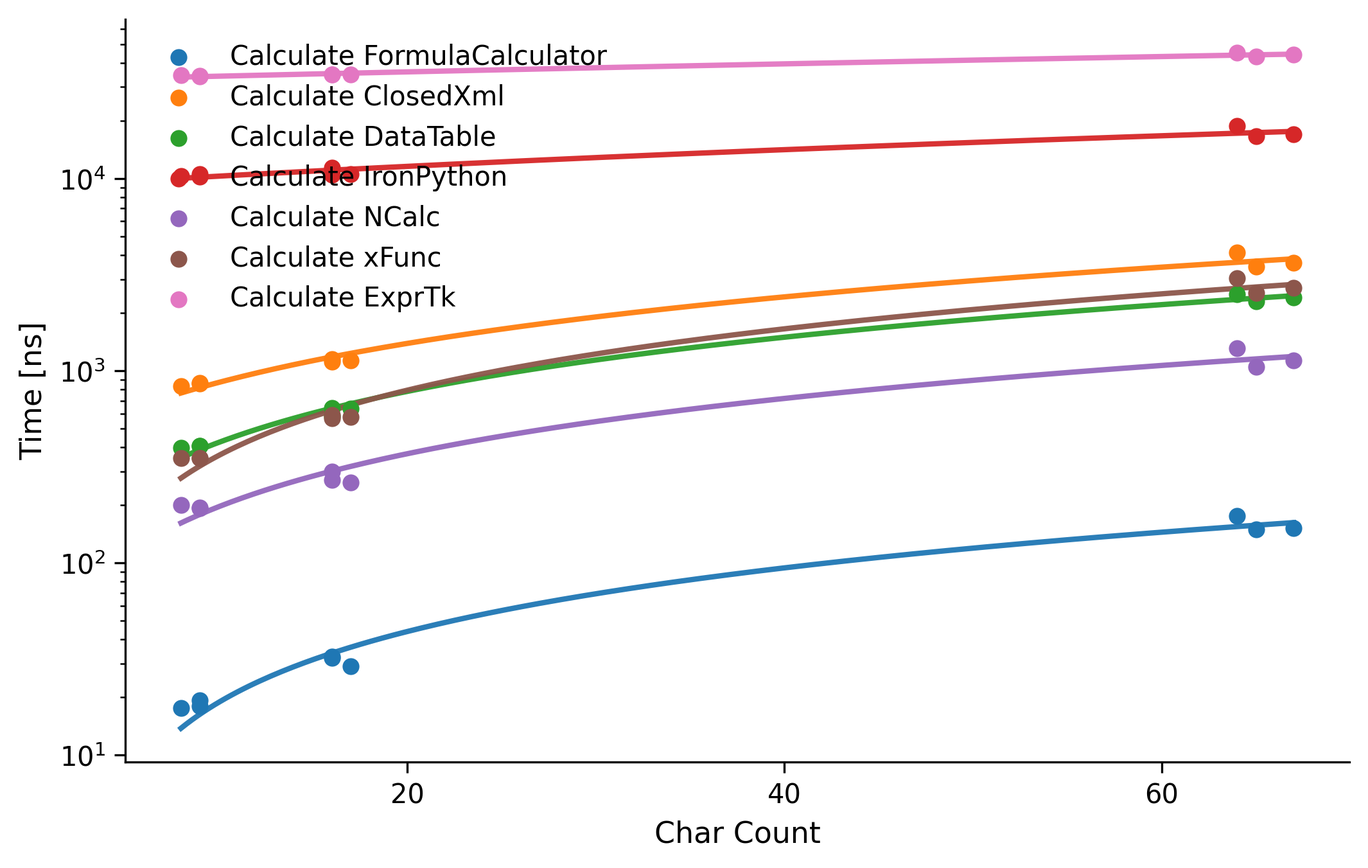
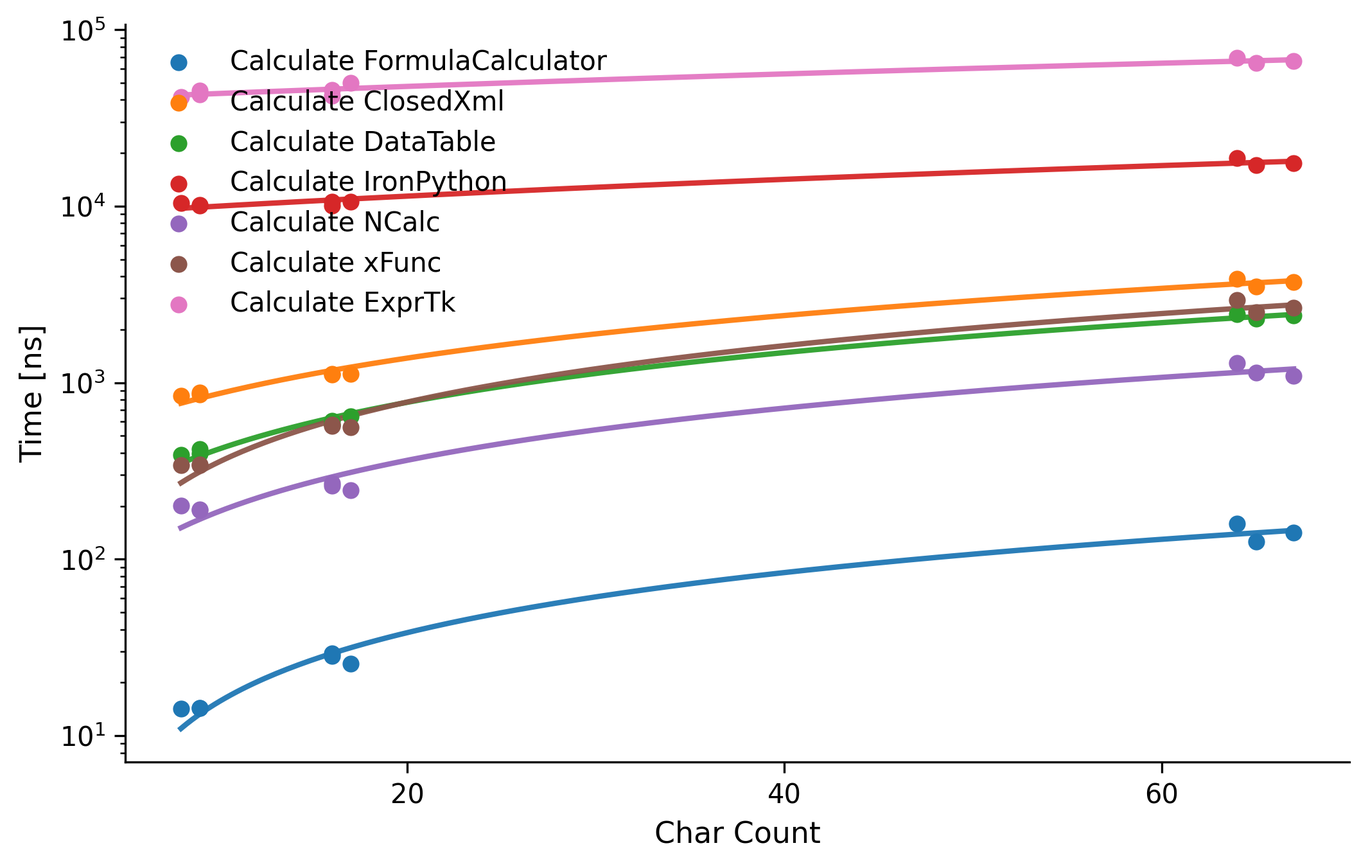
Update benchmark results and metadata for improved accuracy and clarity

diff --git a/dotnet/BenchmarkResults/BenchmarkLibraryComparisonResult.html b/dotnet/BenchmarkResults/BenchmarkLibraryComparisonResult.html
@@ -2,7 +2,7 @@
 <html lang='en'>
 <head>
 <meta charset='utf-8' />
-<title>foriver4725.FormulaCalculator.Benchmarks.LibraryComparison.Benchmarks-20260531-015016</title>
+<title>foriver4725.FormulaCalculator.Benchmarks.LibraryComparison.Benchmarks-20261004-001432</title>
 
 <style type="text/css">
 	table { border-collapse: collapse; display: block; width: 100%; overflow: auto; }
@@ -13,7 +13,7 @@
 </head>
 <body>
 <pre><code>
-BenchmarkDotNet v0.15.8, macOS Tahoe 26.5 (25F71) [Darwin 25.5.0]
+BenchmarkDotNet v0.15.8, macOS 27.0.1 (26A434) [Darwin 27.0.0]
 Apple M3, 1 CPU, 8 logical and 8 physical cores
 .NET SDK 10.0.102
   [Host]     : .NET 8.0.10 (8.0.10, 8.0.1024.46610), Arm64 RyuJIT armv8.0-a
@@ -22,71 +22,71 @@ Apple M3, 1 CPU, 8 logical and 8 physical cores
 <pre><code></code></pre>
 
 <table>
-<thead><tr><th>Method               </th><th>Input</th><th>Case</th><th>Char Count</th><th>Mean  </th><th>Error</th><th>StdDev</th><th>Median</th><th>Gen0</th><th>Gen1</th><th>Gen2</th><th>Allocated</th>
+<thead><tr><th>Method               </th><th>Input</th><th>Case</th><th>Char Count</th><th>Mean  </th><th>Error</th><th>StdDev</th><th>Gen0</th><th>Gen1</th><th>Allocated</th>
 </tr>
-</thead><tbody><tr><td>Calculate_FormulaCalculator</td><td>Len08_A</td><td>Len08_A</td><td>8</td><td>17.62 ns</td><td>0.197 ns</td><td>0.164 ns</td><td>17.62 ns</td><td>-</td><td>-</td><td>-</td><td>-</td>
-</tr><tr><td>Calculate_FormulaCalculator</td><td>Len08_B</td><td>Len08_B</td><td>9</td><td>19.29 ns</td><td>0.344 ns</td><td>0.269 ns</td><td>19.26 ns</td><td>-</td><td>-</td><td>-</td><td>-</td>
-</tr><tr><td>Calculate_FormulaCalculator</td><td>Len08_C</td><td>Len08_C</td><td>9</td><td>18.02 ns</td><td>0.190 ns</td><td>0.158 ns</td><td>18.03 ns</td><td>-</td><td>-</td><td>-</td><td>-</td>
-</tr><tr><td>Calculate_FormulaCalculator</td><td>Len16_A</td><td>Len16_A</td><td>16</td><td>32.44 ns</td><td>0.341 ns</td><td>0.319 ns</td><td>32.50 ns</td><td>-</td><td>-</td><td>-</td><td>-</td>
-</tr><tr><td>Calculate_FormulaCalculator</td><td>Len16_B</td><td>Len16_B</td><td>16</td><td>32.10 ns</td><td>0.232 ns</td><td>0.206 ns</td><td>32.07 ns</td><td>-</td><td>-</td><td>-</td><td>-</td>
-</tr><tr><td>Calculate_FormulaCalculator</td><td>Len16_C</td><td>Len16_C</td><td>17</td><td>28.95 ns</td><td>0.196 ns</td><td>0.184 ns</td><td>28.99 ns</td><td>-</td><td>-</td><td>-</td><td>-</td>
-</tr><tr><td>Calculate_FormulaCalculator</td><td>Len64_A</td><td>Len64_A</td><td>64</td><td>175.10 ns</td><td>3.243 ns</td><td>5.594 ns</td><td>172.80 ns</td><td>-</td><td>-</td><td>-</td><td>-</td>
-</tr><tr><td>Calculate_FormulaCalculator</td><td>Len64_B</td><td>Len64_B</td><td>65</td><td>150.10 ns</td><td>2.902 ns</td><td>4.518 ns</td><td>149.80 ns</td><td>-</td><td>-</td><td>-</td><td>-</td>
-</tr><tr><td>Calculate_FormulaCalculator</td><td>Len64_C</td><td>Len64_C</td><td>67</td><td>151.32 ns</td><td>2.041 ns</td><td>1.809 ns</td><td>151.20 ns</td><td>-</td><td>-</td><td>-</td><td>-</td>
-</tr><tr><td>Calculate_ClosedXml</td><td>Len08_A</td><td>Len08_A</td><td>8</td><td>834.98 ns</td><td>5.720 ns</td><td>5.071 ns</td><td>835.87 ns</td><td>0.2050</td><td>-</td><td>-</td><td>1720 B</td>
-</tr><tr><td>Calculate_ClosedXml</td><td>Len08_B</td><td>Len08_B</td><td>9</td><td>860.63 ns</td><td>6.193 ns</td><td>5.490 ns</td><td>859.76 ns</td><td>0.2050</td><td>-</td><td>-</td><td>1720 B</td>
-</tr><tr><td>Calculate_ClosedXml</td><td>Len08_C</td><td>Len08_C</td><td>9</td><td>863.51 ns</td><td>5.640 ns</td><td>4.710 ns</td><td>864.65 ns</td><td>0.2050</td><td>-</td><td>-</td><td>1720 B</td>
-</tr><tr><td>Calculate_ClosedXml</td><td>Len16_A</td><td>Len16_A</td><td>16</td><td>1,116.80 ns</td><td>4.443 ns</td><td>3.938 ns</td><td>1,116.93 ns</td><td>0.2403</td><td>-</td><td>-</td><td>2016 B</td>
-</tr><tr><td>Calculate_ClosedXml</td><td>Len16_B</td><td>Len16_B</td><td>16</td><td>1,148.55 ns</td><td>22.826 ns</td><td>23.441 ns</td><td>1,147.54 ns</td><td>0.2403</td><td>-</td><td>-</td><td>2016 B</td>
-</tr><tr><td>Calculate_ClosedXml</td><td>Len16_C</td><td>Len16_C</td><td>17</td><td>1,134.37 ns</td><td>7.150 ns</td><td>5.970 ns</td><td>1,133.44 ns</td><td>0.2403</td><td>-</td><td>-</td><td>2016 B</td>
-</tr><tr><td>Calculate_ClosedXml</td><td>Len64_A</td><td>Len64_A</td><td>64</td><td>4,121.01 ns</td><td>21.952 ns</td><td>20.534 ns</td><td>4,122.80 ns</td><td>0.5112</td><td>-</td><td>-</td><td>4336 B</td>
-</tr><tr><td>Calculate_ClosedXml</td><td>Len64_B</td><td>Len64_B</td><td>65</td><td>3,495.64 ns</td><td>17.729 ns</td><td>14.804 ns</td><td>3,495.31 ns</td><td>0.4883</td><td>-</td><td>-</td><td>4096 B</td>
-</tr><tr><td>Calculate_ClosedXml</td><td>Len64_C</td><td>Len64_C</td><td>67</td><td>3,650.43 ns</td><td>19.874 ns</td><td>16.596 ns</td><td>3,646.53 ns</td><td>0.4959</td><td>-</td><td>-</td><td>4176 B</td>
-</tr><tr><td>Calculate_DataTable</td><td>Len08_A</td><td>Len08_A</td><td>8</td><td>396.30 ns</td><td>2.948 ns</td><td>2.758 ns</td><td>395.71 ns</td><td>0.3128</td><td>0.0010</td><td>-</td><td>2624 B</td>
-</tr><tr><td>Calculate_DataTable</td><td>Len08_B</td><td>Len08_B</td><td>9</td><td>408.33 ns</td><td>7.857 ns</td><td>7.350 ns</td><td>413.13 ns</td><td>0.3152</td><td>0.0010</td><td>-</td><td>2640 B</td>
-</tr><tr><td>Calculate_DataTable</td><td>Len08_C</td><td>Len08_C</td><td>9</td><td>405.52 ns</td><td>6.647 ns</td><td>5.892 ns</td><td>407.00 ns</td><td>0.3152</td><td>0.0005</td><td>-</td><td>2640 B</td>
-</tr><tr><td>Calculate_DataTable</td><td>Len16_A</td><td>Len16_A</td><td>16</td><td>579.38 ns</td><td>4.139 ns</td><td>3.871 ns</td><td>580.33 ns</td><td>0.3548</td><td>-</td><td>-</td><td>2992 B</td>
-</tr><tr><td>Calculate_DataTable</td><td>Len16_B</td><td>Len16_B</td><td>16</td><td>639.61 ns</td><td>12.176 ns</td><td>13.028 ns</td><td>636.84 ns</td><td>0.3586</td><td>-</td><td>-</td><td>3000 B</td>
-</tr><tr><td>Calculate_DataTable</td><td>Len16_C</td><td>Len16_C</td><td>17</td><td>634.17 ns</td><td>3.639 ns</td><td>3.404 ns</td><td>634.30 ns</td><td>0.3605</td><td>0.0029</td><td>0.0010</td><td>3016 B</td>
-</tr><tr><td>Calculate_DataTable</td><td>Len64_A</td><td>Len64_A</td><td>64</td><td>2,505.90 ns</td><td>10.084 ns</td><td>9.433 ns</td><td>2,506.21 ns</td><td>0.7935</td><td>-</td><td>-</td><td>6704 B</td>
-</tr><tr><td>Calculate_DataTable</td><td>Len64_B</td><td>Len64_B</td><td>65</td><td>2,302.53 ns</td><td>24.041 ns</td><td>21.311 ns</td><td>2,295.68 ns</td><td>0.7324</td><td>-</td><td>-</td><td>6152 B</td>
-</tr><tr><td>Calculate_DataTable</td><td>Len64_C</td><td>Len64_C</td><td>67</td><td>2,415.20 ns</td><td>47.837 ns</td><td>75.875 ns</td><td>2,390.75 ns</td><td>0.7477</td><td>-</td><td>-</td><td>6344 B</td>
-</tr><tr><td>Calculate_IronPython</td><td>Len08_A</td><td>Len08_A</td><td>8</td><td>10,341.19 ns</td><td>199.222 ns</td><td>514.256 ns</td><td>10,160.29 ns</td><td>5.1117</td><td>0.3815</td><td>-</td><td>42859 B</td>
-</tr><tr><td>Calculate_IronPython</td><td>Len08_B</td><td>Len08_B</td><td>9</td><td>10,252.75 ns</td><td>202.175 ns</td><td>399.073 ns</td><td>10,119.56 ns</td><td>5.1117</td><td>-</td><td>-</td><td>42836 B</td>
-</tr><tr><td>Calculate_IronPython</td><td>Len08_C</td><td>Len08_C</td><td>9</td><td>10,534.07 ns</td><td>206.232 ns</td><td>571.468 ns</td><td>10,363.84 ns</td><td>5.1117</td><td>0.3967</td><td>-</td><td>42828 B</td>
-</tr><tr><td>Calculate_IronPython</td><td>Len16_A</td><td>Len16_A</td><td>16</td><td>11,448.83 ns</td><td>228.319 ns</td><td>375.135 ns</td><td>11,505.00 ns</td><td>5.1270</td><td>0.3662</td><td>-</td><td>43108 B</td>
-</tr><tr><td>Calculate_IronPython</td><td>Len16_B</td><td>Len16_B</td><td>16</td><td>10,489.40 ns</td><td>208.629 ns</td><td>426.174 ns</td><td>10,320.22 ns</td><td>5.0049</td><td>0.3662</td><td>-</td><td>42044 B</td>
-</tr><tr><td>Calculate_IronPython</td><td>Len16_C</td><td>Len16_C</td><td>17</td><td>10,542.27 ns</td><td>92.446 ns</td><td>81.951 ns</td><td>10,560.20 ns</td><td>5.1270</td><td>0.3662</td><td>-</td><td>43284 B</td>
-</tr><tr><td>Calculate_IronPython</td><td>Len64_A</td><td>Len64_A</td><td>64</td><td>18,833.95 ns</td><td>301.469 ns</td><td>451.225 ns</td><td>18,737.87 ns</td><td>6.8359</td><td>0.4883</td><td>-</td><td>57486 B</td>
-</tr><tr><td>Calculate_IronPython</td><td>Len64_B</td><td>Len64_B</td><td>65</td><td>16,587.76 ns</td><td>220.517 ns</td><td>195.482 ns</td><td>16,587.53 ns</td><td>6.5308</td><td>0.4883</td><td>-</td><td>54845 B</td>
-</tr><tr><td>Calculate_IronPython</td><td>Len64_C</td><td>Len64_C</td><td>67</td><td>17,000.88 ns</td><td>138.847 ns</td><td>115.943 ns</td><td>17,009.05 ns</td><td>6.5918</td><td>0.4883</td><td>-</td><td>55197 B</td>
-</tr><tr><td>Calculate_NCalc</td><td>Len08_A</td><td>Len08_A</td><td>8</td><td>200.94 ns</td><td>3.913 ns</td><td>5.485 ns</td><td>198.64 ns</td><td>0.1223</td><td>-</td><td>-</td><td>1024 B</td>
-</tr><tr><td>Calculate_NCalc</td><td>Len08_B</td><td>Len08_B</td><td>9</td><td>193.52 ns</td><td>0.685 ns</td><td>0.572 ns</td><td>193.41 ns</td><td>0.1194</td><td>-</td><td>-</td><td>1000 B</td>
-</tr><tr><td>Calculate_NCalc</td><td>Len08_C</td><td>Len08_C</td><td>9</td><td>194.62 ns</td><td>3.778 ns</td><td>4.199 ns</td><td>193.28 ns</td><td>0.1194</td><td>-</td><td>-</td><td>1000 B</td>
-</tr><tr><td>Calculate_NCalc</td><td>Len16_A</td><td>Len16_A</td><td>16</td><td>299.58 ns</td><td>5.858 ns</td><td>7.409 ns</td><td>298.66 ns</td><td>0.1545</td><td>-</td><td>-</td><td>1296 B</td>
-</tr><tr><td>Calculate_NCalc</td><td>Len16_B</td><td>Len16_B</td><td>16</td><td>270.12 ns</td><td>5.357 ns</td><td>7.509 ns</td><td>268.33 ns</td><td>0.1516</td><td>-</td><td>-</td><td>1272 B</td>
-</tr><tr><td>Calculate_NCalc</td><td>Len16_C</td><td>Len16_C</td><td>17</td><td>262.62 ns</td><td>5.033 ns</td><td>4.203 ns</td><td>263.09 ns</td><td>0.1488</td><td>-</td><td>-</td><td>1248 B</td>
-</tr><tr><td>Calculate_NCalc</td><td>Len64_A</td><td>Len64_A</td><td>64</td><td>1,311.52 ns</td><td>25.096 ns</td><td>24.648 ns</td><td>1,298.38 ns</td><td>0.6371</td><td>0.0019</td><td>-</td><td>5344 B</td>
-</tr><tr><td>Calculate_NCalc</td><td>Len64_B</td><td>Len64_B</td><td>65</td><td>1,050.06 ns</td><td>18.754 ns</td><td>16.625 ns</td><td>1,042.97 ns</td><td>0.5226</td><td>0.0019</td><td>-</td><td>4384 B</td>
-</tr><tr><td>Calculate_NCalc</td><td>Len64_C</td><td>Len64_C</td><td>67</td><td>1,134.95 ns</td><td>19.046 ns</td><td>17.816 ns</td><td>1,132.92 ns</td><td>0.5589</td><td>0.0019</td><td>-</td><td>4680 B</td>
-</tr><tr><td>Calculate_xFunc</td><td>Len08_A</td><td>Len08_A</td><td>8</td><td>350.66 ns</td><td>6.628 ns</td><td>6.200 ns</td><td>347.36 ns</td><td>0.0420</td><td>-</td><td>-</td><td>352 B</td>
-</tr><tr><td>Calculate_xFunc</td><td>Len08_B</td><td>Len08_B</td><td>9</td><td>350.91 ns</td><td>6.735 ns</td><td>7.486 ns</td><td>349.13 ns</td><td>0.0420</td><td>-</td><td>-</td><td>352 B</td>
-</tr><tr><td>Calculate_xFunc</td><td>Len08_C</td><td>Len08_C</td><td>9</td><td>352.38 ns</td><td>5.982 ns</td><td>5.303 ns</td><td>352.56 ns</td><td>0.0420</td><td>-</td><td>-</td><td>352 B</td>
-</tr><tr><td>Calculate_xFunc</td><td>Len16_A</td><td>Len16_A</td><td>16</td><td>590.97 ns</td><td>11.341 ns</td><td>11.139 ns</td><td>593.99 ns</td><td>0.0572</td><td>-</td><td>-</td><td>480 B</td>
-</tr><tr><td>Calculate_xFunc</td><td>Len16_B</td><td>Len16_B</td><td>16</td><td>568.56 ns</td><td>5.382 ns</td><td>4.494 ns</td><td>568.31 ns</td><td>0.0572</td><td>-</td><td>-</td><td>480 B</td>
-</tr><tr><td>Calculate_xFunc</td><td>Len16_C</td><td>Len16_C</td><td>17</td><td>573.69 ns</td><td>10.313 ns</td><td>8.051 ns</td><td>577.00 ns</td><td>0.0572</td><td>-</td><td>-</td><td>480 B</td>
-</tr><tr><td>Calculate_xFunc</td><td>Len64_A</td><td>Len64_A</td><td>64</td><td>3,029.21 ns</td><td>44.387 ns</td><td>37.065 ns</td><td>3,040.08 ns</td><td>0.2708</td><td>-</td><td>-</td><td>2272 B</td>
-</tr><tr><td>Calculate_xFunc</td><td>Len64_B</td><td>Len64_B</td><td>65</td><td>2,542.58 ns</td><td>50.810 ns</td><td>49.902 ns</td><td>2,526.11 ns</td><td>0.2251</td><td>-</td><td>-</td><td>1888 B</td>
-</tr><tr><td>Calculate_xFunc</td><td>Len64_C</td><td>Len64_C</td><td>67</td><td>2,701.08 ns</td><td>49.944 ns</td><td>44.274 ns</td><td>2,694.07 ns</td><td>0.2403</td><td>-</td><td>-</td><td>2016 B</td>
-</tr><tr><td>Calculate_ExprTk</td><td>Len08_A</td><td>Len08_A</td><td>8</td><td>34,532.84 ns</td><td>545.643 ns</td><td>510.395 ns</td><td>34,723.01 ns</td><td>-</td><td>-</td><td>-</td><td>-</td>
-</tr><tr><td>Calculate_ExprTk</td><td>Len08_B</td><td>Len08_B</td><td>9</td><td>34,398.14 ns</td><td>640.262 ns</td><td>711.649 ns</td><td>34,315.12 ns</td><td>-</td><td>-</td><td>-</td><td>-</td>
-</tr><tr><td>Calculate_ExprTk</td><td>Len08_C</td><td>Len08_C</td><td>9</td><td>34,116.07 ns</td><td>552.838 ns</td><td>517.125 ns</td><td>33,923.76 ns</td><td>-</td><td>-</td><td>-</td><td>-</td>
-</tr><tr><td>Calculate_ExprTk</td><td>Len16_A</td><td>Len16_A</td><td>16</td><td>34,710.02 ns</td><td>213.337 ns</td><td>189.117 ns</td><td>34,782.14 ns</td><td>-</td><td>-</td><td>-</td><td>-</td>
-</tr><tr><td>Calculate_ExprTk</td><td>Len16_B</td><td>Len16_B</td><td>16</td><td>34,841.45 ns</td><td>528.165 ns</td><td>518.729 ns</td><td>34,610.28 ns</td><td>-</td><td>-</td><td>-</td><td>-</td>
-</tr><tr><td>Calculate_ExprTk</td><td>Len16_C</td><td>Len16_C</td><td>17</td><td>34,847.98 ns</td><td>334.533 ns</td><td>296.555 ns</td><td>34,813.16 ns</td><td>-</td><td>-</td><td>-</td><td>-</td>
-</tr><tr><td>Calculate_ExprTk</td><td>Len64_A</td><td>Len64_A</td><td>64</td><td>45,242.95 ns</td><td>205.607 ns</td><td>182.266 ns</td><td>45,311.04 ns</td><td>-</td><td>-</td><td>-</td><td>-</td>
-</tr><tr><td>Calculate_ExprTk</td><td>Len64_B</td><td>Len64_B</td><td>65</td><td>43,314.55 ns</td><td>309.746 ns</td><td>274.582 ns</td><td>43,300.88 ns</td><td>-</td><td>-</td><td>-</td><td>-</td>
-</tr><tr><td>Calculate_ExprTk</td><td>Len64_C</td><td>Len64_C</td><td>67</td><td>44,266.54 ns</td><td>345.993 ns</td><td>306.714 ns</td><td>44,361.03 ns</td><td>-</td><td>-</td><td>-</td><td>-</td>
+</thead><tbody><tr><td>Calculate_FormulaCalculator</td><td>Len08_A</td><td>Len08_A</td><td>8</td><td>14.21 ns</td><td>0.294 ns</td><td>0.260 ns</td><td>-</td><td>-</td><td>-</td>
+</tr><tr><td>Calculate_FormulaCalculator</td><td>Len08_B</td><td>Len08_B</td><td>9</td><td>14.27 ns</td><td>0.072 ns</td><td>0.067 ns</td><td>-</td><td>-</td><td>-</td>
+</tr><tr><td>Calculate_FormulaCalculator</td><td>Len08_C</td><td>Len08_C</td><td>9</td><td>14.29 ns</td><td>0.310 ns</td><td>0.319 ns</td><td>-</td><td>-</td><td>-</td>
+</tr><tr><td>Calculate_FormulaCalculator</td><td>Len16_A</td><td>Len16_A</td><td>16</td><td>29.21 ns</td><td>0.480 ns</td><td>0.449 ns</td><td>-</td><td>-</td><td>-</td>
+</tr><tr><td>Calculate_FormulaCalculator</td><td>Len16_B</td><td>Len16_B</td><td>16</td><td>28.18 ns</td><td>0.302 ns</td><td>0.268 ns</td><td>-</td><td>-</td><td>-</td>
+</tr><tr><td>Calculate_FormulaCalculator</td><td>Len16_C</td><td>Len16_C</td><td>17</td><td>25.65 ns</td><td>0.506 ns</td><td>0.497 ns</td><td>-</td><td>-</td><td>-</td>
+</tr><tr><td>Calculate_FormulaCalculator</td><td>Len64_A</td><td>Len64_A</td><td>64</td><td>159.21 ns</td><td>3.113 ns</td><td>3.937 ns</td><td>-</td><td>-</td><td>-</td>
+</tr><tr><td>Calculate_FormulaCalculator</td><td>Len64_B</td><td>Len64_B</td><td>65</td><td>125.71 ns</td><td>1.785 ns</td><td>1.582 ns</td><td>-</td><td>-</td><td>-</td>
+</tr><tr><td>Calculate_FormulaCalculator</td><td>Len64_C</td><td>Len64_C</td><td>67</td><td>141.49 ns</td><td>2.693 ns</td><td>2.645 ns</td><td>-</td><td>-</td><td>-</td>
+</tr><tr><td>Calculate_ClosedXml</td><td>Len08_A</td><td>Len08_A</td><td>8</td><td>840.02 ns</td><td>10.464 ns</td><td>9.788 ns</td><td>0.2050</td><td>-</td><td>1720 B</td>
+</tr><tr><td>Calculate_ClosedXml</td><td>Len08_B</td><td>Len08_B</td><td>9</td><td>876.03 ns</td><td>12.693 ns</td><td>11.873 ns</td><td>0.2041</td><td>-</td><td>1720 B</td>
+</tr><tr><td>Calculate_ClosedXml</td><td>Len08_C</td><td>Len08_C</td><td>9</td><td>853.12 ns</td><td>16.397 ns</td><td>13.693 ns</td><td>0.2050</td><td>-</td><td>1720 B</td>
+</tr><tr><td>Calculate_ClosedXml</td><td>Len16_A</td><td>Len16_A</td><td>16</td><td>1,114.07 ns</td><td>5.264 ns</td><td>4.924 ns</td><td>0.2403</td><td>-</td><td>2016 B</td>
+</tr><tr><td>Calculate_ClosedXml</td><td>Len16_B</td><td>Len16_B</td><td>16</td><td>1,119.17 ns</td><td>3.837 ns</td><td>3.589 ns</td><td>0.2403</td><td>0.0019</td><td>2016 B</td>
+</tr><tr><td>Calculate_ClosedXml</td><td>Len16_C</td><td>Len16_C</td><td>17</td><td>1,124.61 ns</td><td>6.029 ns</td><td>5.345 ns</td><td>0.2403</td><td>-</td><td>2016 B</td>
+</tr><tr><td>Calculate_ClosedXml</td><td>Len64_A</td><td>Len64_A</td><td>64</td><td>3,885.53 ns</td><td>6.675 ns</td><td>5.917 ns</td><td>0.5112</td><td>-</td><td>4336 B</td>
+</tr><tr><td>Calculate_ClosedXml</td><td>Len64_B</td><td>Len64_B</td><td>65</td><td>3,514.76 ns</td><td>22.778 ns</td><td>21.306 ns</td><td>0.4883</td><td>-</td><td>4096 B</td>
+</tr><tr><td>Calculate_ClosedXml</td><td>Len64_C</td><td>Len64_C</td><td>67</td><td>3,721.01 ns</td><td>14.763 ns</td><td>13.087 ns</td><td>0.4959</td><td>-</td><td>4176 B</td>
+</tr><tr><td>Calculate_DataTable</td><td>Len08_A</td><td>Len08_A</td><td>8</td><td>390.18 ns</td><td>4.570 ns</td><td>4.275 ns</td><td>0.3133</td><td>0.0005</td><td>2624 B</td>
+</tr><tr><td>Calculate_DataTable</td><td>Len08_B</td><td>Len08_B</td><td>9</td><td>419.08 ns</td><td>4.351 ns</td><td>3.857 ns</td><td>0.3152</td><td>0.0005</td><td>2640 B</td>
+</tr><tr><td>Calculate_DataTable</td><td>Len08_C</td><td>Len08_C</td><td>9</td><td>396.95 ns</td><td>6.490 ns</td><td>6.071 ns</td><td>0.3152</td><td>0.0005</td><td>2640 B</td>
+</tr><tr><td>Calculate_DataTable</td><td>Len16_A</td><td>Len16_A</td><td>16</td><td>577.48 ns</td><td>4.733 ns</td><td>4.427 ns</td><td>0.3548</td><td>-</td><td>2992 B</td>
+</tr><tr><td>Calculate_DataTable</td><td>Len16_B</td><td>Len16_B</td><td>16</td><td>606.75 ns</td><td>3.901 ns</td><td>3.649 ns</td><td>0.3586</td><td>-</td><td>3000 B</td>
+</tr><tr><td>Calculate_DataTable</td><td>Len16_C</td><td>Len16_C</td><td>17</td><td>642.07 ns</td><td>3.529 ns</td><td>3.301 ns</td><td>0.3586</td><td>-</td><td>3016 B</td>
+</tr><tr><td>Calculate_DataTable</td><td>Len64_A</td><td>Len64_A</td><td>64</td><td>2,444.56 ns</td><td>14.479 ns</td><td>13.544 ns</td><td>0.8011</td><td>0.0038</td><td>6704 B</td>
+</tr><tr><td>Calculate_DataTable</td><td>Len64_B</td><td>Len64_B</td><td>65</td><td>2,304.38 ns</td><td>18.936 ns</td><td>17.713 ns</td><td>0.7324</td><td>-</td><td>6152 B</td>
+</tr><tr><td>Calculate_DataTable</td><td>Len64_C</td><td>Len64_C</td><td>67</td><td>2,394.17 ns</td><td>13.074 ns</td><td>12.229 ns</td><td>0.7477</td><td>-</td><td>6344 B</td>
+</tr><tr><td>Calculate_IronPython</td><td>Len08_A</td><td>Len08_A</td><td>8</td><td>10,419.76 ns</td><td>179.299 ns</td><td>167.716 ns</td><td>5.0964</td><td>0.4578</td><td>42683 B</td>
+</tr><tr><td>Calculate_IronPython</td><td>Len08_B</td><td>Len08_B</td><td>9</td><td>10,165.54 ns</td><td>117.421 ns</td><td>104.090 ns</td><td>5.1117</td><td>0.3815</td><td>42836 B</td>
+</tr><tr><td>Calculate_IronPython</td><td>Len08_C</td><td>Len08_C</td><td>9</td><td>10,040.54 ns</td><td>90.909 ns</td><td>80.588 ns</td><td>5.1117</td><td>0.3967</td><td>42828 B</td>
+</tr><tr><td>Calculate_IronPython</td><td>Len16_A</td><td>Len16_A</td><td>16</td><td>10,629.35 ns</td><td>69.152 ns</td><td>61.301 ns</td><td>5.1270</td><td>0.3662</td><td>43108 B</td>
+</tr><tr><td>Calculate_IronPython</td><td>Len16_B</td><td>Len16_B</td><td>16</td><td>10,064.47 ns</td><td>107.696 ns</td><td>100.739 ns</td><td>5.0049</td><td>0.4272</td><td>42044 B</td>
+</tr><tr><td>Calculate_IronPython</td><td>Len16_C</td><td>Len16_C</td><td>17</td><td>10,549.71 ns</td><td>84.904 ns</td><td>79.420 ns</td><td>5.1727</td><td>0.3815</td><td>43284 B</td>
+</tr><tr><td>Calculate_IronPython</td><td>Len64_A</td><td>Len64_A</td><td>64</td><td>18,736.42 ns</td><td>125.046 ns</td><td>110.850 ns</td><td>6.8359</td><td>0.4883</td><td>57486 B</td>
+</tr><tr><td>Calculate_IronPython</td><td>Len64_B</td><td>Len64_B</td><td>65</td><td>17,140.62 ns</td><td>130.215 ns</td><td>101.663 ns</td><td>6.4697</td><td>0.4883</td><td>54845 B</td>
+</tr><tr><td>Calculate_IronPython</td><td>Len64_C</td><td>Len64_C</td><td>67</td><td>17,525.94 ns</td><td>106.950 ns</td><td>100.041 ns</td><td>6.5918</td><td>0.4883</td><td>55197 B</td>
+</tr><tr><td>Calculate_NCalc</td><td>Len08_A</td><td>Len08_A</td><td>8</td><td>201.49 ns</td><td>2.103 ns</td><td>1.967 ns</td><td>0.1223</td><td>-</td><td>1024 B</td>
+</tr><tr><td>Calculate_NCalc</td><td>Len08_B</td><td>Len08_B</td><td>9</td><td>190.76 ns</td><td>0.801 ns</td><td>0.749 ns</td><td>0.1194</td><td>-</td><td>1000 B</td>
+</tr><tr><td>Calculate_NCalc</td><td>Len08_C</td><td>Len08_C</td><td>9</td><td>189.57 ns</td><td>0.825 ns</td><td>0.731 ns</td><td>0.1194</td><td>-</td><td>1000 B</td>
+</tr><tr><td>Calculate_NCalc</td><td>Len16_A</td><td>Len16_A</td><td>16</td><td>270.29 ns</td><td>1.379 ns</td><td>1.290 ns</td><td>0.1545</td><td>-</td><td>1296 B</td>
+</tr><tr><td>Calculate_NCalc</td><td>Len16_B</td><td>Len16_B</td><td>16</td><td>260.37 ns</td><td>1.138 ns</td><td>1.065 ns</td><td>0.1516</td><td>-</td><td>1272 B</td>
+</tr><tr><td>Calculate_NCalc</td><td>Len16_C</td><td>Len16_C</td><td>17</td><td>245.89 ns</td><td>0.841 ns</td><td>0.746 ns</td><td>0.1488</td><td>-</td><td>1248 B</td>
+</tr><tr><td>Calculate_NCalc</td><td>Len64_A</td><td>Len64_A</td><td>64</td><td>1,286.80 ns</td><td>4.075 ns</td><td>3.612 ns</td><td>0.6371</td><td>0.0019</td><td>5344 B</td>
+</tr><tr><td>Calculate_NCalc</td><td>Len64_B</td><td>Len64_B</td><td>65</td><td>1,137.75 ns</td><td>1.263 ns</td><td>1.120 ns</td><td>0.5226</td><td>0.0019</td><td>4384 B</td>
+</tr><tr><td>Calculate_NCalc</td><td>Len64_C</td><td>Len64_C</td><td>67</td><td>1,095.91 ns</td><td>1.877 ns</td><td>1.756 ns</td><td>0.5589</td><td>0.0019</td><td>4680 B</td>
+</tr><tr><td>Calculate_xFunc</td><td>Len08_A</td><td>Len08_A</td><td>8</td><td>341.39 ns</td><td>1.310 ns</td><td>1.226 ns</td><td>0.0420</td><td>-</td><td>352 B</td>
+</tr><tr><td>Calculate_xFunc</td><td>Len08_B</td><td>Len08_B</td><td>9</td><td>341.81 ns</td><td>1.557 ns</td><td>1.456 ns</td><td>0.0420</td><td>-</td><td>352 B</td>
+</tr><tr><td>Calculate_xFunc</td><td>Len08_C</td><td>Len08_C</td><td>9</td><td>342.83 ns</td><td>0.801 ns</td><td>0.710 ns</td><td>0.0420</td><td>-</td><td>352 B</td>
+</tr><tr><td>Calculate_xFunc</td><td>Len16_A</td><td>Len16_A</td><td>16</td><td>568.09 ns</td><td>2.037 ns</td><td>1.805 ns</td><td>0.0572</td><td>-</td><td>480 B</td>
+</tr><tr><td>Calculate_xFunc</td><td>Len16_B</td><td>Len16_B</td><td>16</td><td>575.56 ns</td><td>3.808 ns</td><td>3.375 ns</td><td>0.0572</td><td>-</td><td>480 B</td>
+</tr><tr><td>Calculate_xFunc</td><td>Len16_C</td><td>Len16_C</td><td>17</td><td>558.64 ns</td><td>1.087 ns</td><td>0.908 ns</td><td>0.0572</td><td>-</td><td>480 B</td>
+</tr><tr><td>Calculate_xFunc</td><td>Len64_A</td><td>Len64_A</td><td>64</td><td>2,932.22 ns</td><td>6.443 ns</td><td>6.027 ns</td><td>0.2708</td><td>-</td><td>2272 B</td>
+</tr><tr><td>Calculate_xFunc</td><td>Len64_B</td><td>Len64_B</td><td>65</td><td>2,509.77 ns</td><td>5.845 ns</td><td>4.881 ns</td><td>0.2251</td><td>-</td><td>1888 B</td>
+</tr><tr><td>Calculate_xFunc</td><td>Len64_C</td><td>Len64_C</td><td>67</td><td>2,653.66 ns</td><td>8.056 ns</td><td>7.535 ns</td><td>0.2403</td><td>-</td><td>2016 B</td>
+</tr><tr><td>Calculate_ExprTk</td><td>Len08_A</td><td>Len08_A</td><td>8</td><td>41,457.57 ns</td><td>584.448 ns</td><td>546.693 ns</td><td>-</td><td>-</td><td>-</td>
+</tr><tr><td>Calculate_ExprTk</td><td>Len08_B</td><td>Len08_B</td><td>9</td><td>42,847.31 ns</td><td>833.751 ns</td><td>779.891 ns</td><td>-</td><td>-</td><td>-</td>
+</tr><tr><td>Calculate_ExprTk</td><td>Len08_C</td><td>Len08_C</td><td>9</td><td>45,267.98 ns</td><td>191.078 ns</td><td>178.734 ns</td><td>-</td><td>-</td><td>-</td>
+</tr><tr><td>Calculate_ExprTk</td><td>Len16_A</td><td>Len16_A</td><td>16</td><td>42,323.03 ns</td><td>773.344 ns</td><td>723.386 ns</td><td>-</td><td>-</td><td>-</td>
+</tr><tr><td>Calculate_ExprTk</td><td>Len16_B</td><td>Len16_B</td><td>16</td><td>45,434.93 ns</td><td>274.418 ns</td><td>243.264 ns</td><td>-</td><td>-</td><td>-</td>
+</tr><tr><td>Calculate_ExprTk</td><td>Len16_C</td><td>Len16_C</td><td>17</td><td>49,734.07 ns</td><td>202.675 ns</td><td>179.666 ns</td><td>-</td><td>-</td><td>-</td>
+</tr><tr><td>Calculate_ExprTk</td><td>Len64_A</td><td>Len64_A</td><td>64</td><td>69,381.37 ns</td><td>478.763 ns</td><td>447.835 ns</td><td>-</td><td>-</td><td>-</td>
+</tr><tr><td>Calculate_ExprTk</td><td>Len64_B</td><td>Len64_B</td><td>65</td><td>64,574.17 ns</td><td>786.426 ns</td><td>656.701 ns</td><td>-</td><td>-</td><td>-</td>
+</tr><tr><td>Calculate_ExprTk</td><td>Len64_C</td><td>Len64_C</td><td>67</td><td>66,630.75 ns</td><td>823.367 ns</td><td>770.178 ns</td><td>-</td><td>-</td><td>-</td>
 </tr></tbody></table>
 </body>
 </html>

diff --git a/dotnet/BenchmarkResults/BenchmarkLibraryComparisonResult.md b/dotnet/BenchmarkResults/BenchmarkLibraryComparisonResult.md
@@ -1,6 +1,6 @@
 ```
 
-BenchmarkDotNet v0.15.8, macOS Tahoe 26.5 (25F71) [Darwin 25.5.0]
+BenchmarkDotNet v0.15.8, macOS 27.0.1 (26A434) [Darwin 27.0.0]
 Apple M3, 1 CPU, 8 logical and 8 physical cores
 .NET SDK 10.0.102
   [Host]     : .NET 8.0.10 (8.0.10, 8.0.1024.46610), Arm64 RyuJIT armv8.0-a
@@ -8,68 +8,68 @@ Apple M3, 1 CPU, 8 logical and 8 physical cores
 
 
 ```
-| Method                      | Input   | Case    | Char Count | Mean         | Error      | StdDev     | Median       | Gen0   | Gen1   | Gen2   | Allocated |
-|---------------------------- |-------- |-------- |-----------:|-------------:|-----------:|-----------:|-------------:|-------:|-------:|-------:|----------:|
-| Calculate_FormulaCalculator | Len08_A | Len08_A |          8 |     17.62 ns |   0.197 ns |   0.164 ns |     17.62 ns |      - |      - |      - |         - |
-| Calculate_FormulaCalculator | Len08_B | Len08_B |          9 |     19.29 ns |   0.344 ns |   0.269 ns |     19.26 ns |      - |      - |      - |         - |
-| Calculate_FormulaCalculator | Len08_C | Len08_C |          9 |     18.02 ns |   0.190 ns |   0.158 ns |     18.03 ns |      - |      - |      - |         - |
-| Calculate_FormulaCalculator | Len16_A | Len16_A |         16 |     32.44 ns |   0.341 ns |   0.319 ns |     32.50 ns |      - |      - |      - |         - |
-| Calculate_FormulaCalculator | Len16_B | Len16_B |         16 |     32.10 ns |   0.232 ns |   0.206 ns |     32.07 ns |      - |      - |      - |         - |
-| Calculate_FormulaCalculator | Len16_C | Len16_C |         17 |     28.95 ns |   0.196 ns |   0.184 ns |     28.99 ns |      - |      - |      - |         - |
-| Calculate_FormulaCalculator | Len64_A | Len64_A |         64 |    175.10 ns |   3.243 ns |   5.594 ns |    172.80 ns |      - |      - |      - |         - |
-| Calculate_FormulaCalculator | Len64_B | Len64_B |         65 |    150.10 ns |   2.902 ns |   4.518 ns |    149.80 ns |      - |      - |      - |         - |
-| Calculate_FormulaCalculator | Len64_C | Len64_C |         67 |    151.32 ns |   2.041 ns |   1.809 ns |    151.20 ns |      - |      - |      - |         - |
-| Calculate_ClosedXml         | Len08_A | Len08_A |          8 |    834.98 ns |   5.720 ns |   5.071 ns |    835.87 ns | 0.2050 |      - |      - |    1720 B |
-| Calculate_ClosedXml         | Len08_B | Len08_B |          9 |    860.63 ns |   6.193 ns |   5.490 ns |    859.76 ns | 0.2050 |      - |      - |    1720 B |
-| Calculate_ClosedXml         | Len08_C | Len08_C |          9 |    863.51 ns |   5.640 ns |   4.710 ns |    864.65 ns | 0.2050 |      - |      - |    1720 B |
-| Calculate_ClosedXml         | Len16_A | Len16_A |         16 |  1,116.80 ns |   4.443 ns |   3.938 ns |  1,116.93 ns | 0.2403 |      - |      - |    2016 B |
-| Calculate_ClosedXml         | Len16_B | Len16_B |         16 |  1,148.55 ns |  22.826 ns |  23.441 ns |  1,147.54 ns | 0.2403 |      - |      - |    2016 B |
-| Calculate_ClosedXml         | Len16_C | Len16_C |         17 |  1,134.37 ns |   7.150 ns |   5.970 ns |  1,133.44 ns | 0.2403 |      - |      - |    2016 B |
-| Calculate_ClosedXml         | Len64_A | Len64_A |         64 |  4,121.01 ns |  21.952 ns |  20.534 ns |  4,122.80 ns | 0.5112 |      - |      - |    4336 B |
-| Calculate_ClosedXml         | Len64_B | Len64_B |         65 |  3,495.64 ns |  17.729 ns |  14.804 ns |  3,495.31 ns | 0.4883 |      - |      - |    4096 B |
-| Calculate_ClosedXml         | Len64_C | Len64_C |         67 |  3,650.43 ns |  19.874 ns |  16.596 ns |  3,646.53 ns | 0.4959 |      - |      - |    4176 B |
-| Calculate_DataTable         | Len08_A | Len08_A |          8 |    396.30 ns |   2.948 ns |   2.758 ns |    395.71 ns | 0.3128 | 0.0010 |      - |    2624 B |
-| Calculate_DataTable         | Len08_B | Len08_B |          9 |    408.33 ns |   7.857 ns |   7.350 ns |    413.13 ns | 0.3152 | 0.0010 |      - |    2640 B |
-| Calculate_DataTable         | Len08_C | Len08_C |          9 |    405.52 ns |   6.647 ns |   5.892 ns |    407.00 ns | 0.3152 | 0.0005 |      - |    2640 B |
-| Calculate_DataTable         | Len16_A | Len16_A |         16 |    579.38 ns |   4.139 ns |   3.871 ns |    580.33 ns | 0.3548 |      - |      - |    2992 B |
-| Calculate_DataTable         | Len16_B | Len16_B |         16 |    639.61 ns |  12.176 ns |  13.028 ns |    636.84 ns | 0.3586 |      - |      - |    3000 B |
-| Calculate_DataTable         | Len16_C | Len16_C |         17 |    634.17 ns |   3.639 ns |   3.404 ns |    634.30 ns | 0.3605 | 0.0029 | 0.0010 |    3016 B |
-| Calculate_DataTable         | Len64_A | Len64_A |         64 |  2,505.90 ns |  10.084 ns |   9.433 ns |  2,506.21 ns | 0.7935 |      - |      - |    6704 B |
-| Calculate_DataTable         | Len64_B | Len64_B |         65 |  2,302.53 ns |  24.041 ns |  21.311 ns |  2,295.68 ns | 0.7324 |      - |      - |    6152 B |
-| Calculate_DataTable         | Len64_C | Len64_C |         67 |  2,415.20 ns |  47.837 ns |  75.875 ns |  2,390.75 ns | 0.7477 |      - |      - |    6344 B |
-| Calculate_IronPython        | Len08_A | Len08_A |          8 | 10,341.19 ns | 199.222 ns | 514.256 ns | 10,160.29 ns | 5.1117 | 0.3815 |      - |   42859 B |
-| Calculate_IronPython        | Len08_B | Len08_B |          9 | 10,252.75 ns | 202.175 ns | 399.073 ns | 10,119.56 ns | 5.1117 |      - |      - |   42836 B |
-| Calculate_IronPython        | Len08_C | Len08_C |          9 | 10,534.07 ns | 206.232 ns | 571.468 ns | 10,363.84 ns | 5.1117 | 0.3967 |      - |   42828 B |
-| Calculate_IronPython        | Len16_A | Len16_A |         16 | 11,448.83 ns | 228.319 ns | 375.135 ns | 11,505.00 ns | 5.1270 | 0.3662 |      - |   43108 B |
-| Calculate_IronPython        | Len16_B | Len16_B |         16 | 10,489.40 ns | 208.629 ns | 426.174 ns | 10,320.22 ns | 5.0049 | 0.3662 |      - |   42044 B |
-| Calculate_IronPython        | Len16_C | Len16_C |         17 | 10,542.27 ns |  92.446 ns |  81.951 ns | 10,560.20 ns | 5.1270 | 0.3662 |      - |   43284 B |
-| Calculate_IronPython        | Len64_A | Len64_A |         64 | 18,833.95 ns | 301.469 ns | 451.225 ns | 18,737.87 ns | 6.8359 | 0.4883 |      - |   57486 B |
-| Calculate_IronPython        | Len64_B | Len64_B |         65 | 16,587.76 ns | 220.517 ns | 195.482 ns | 16,587.53 ns | 6.5308 | 0.4883 |      - |   54845 B |
-| Calculate_IronPython        | Len64_C | Len64_C |         67 | 17,000.88 ns | 138.847 ns | 115.943 ns | 17,009.05 ns | 6.5918 | 0.4883 |      - |   55197 B |
-| Calculate_NCalc             | Len08_A | Len08_A |          8 |    200.94 ns |   3.913 ns |   5.485 ns |    198.64 ns | 0.1223 |      - |      - |    1024 B |
-| Calculate_NCalc             | Len08_B | Len08_B |          9 |    193.52 ns |   0.685 ns |   0.572 ns |    193.41 ns | 0.1194 |      - |      - |    1000 B |
-| Calculate_NCalc             | Len08_C | Len08_C |          9 |    194.62 ns |   3.778 ns |   4.199 ns |    193.28 ns | 0.1194 |      - |      - |    1000 B |
-| Calculate_NCalc             | Len16_A | Len16_A |         16 |    299.58 ns |   5.858 ns |   7.409 ns |    298.66 ns | 0.1545 |      - |      - |    1296 B |
-| Calculate_NCalc             | Len16_B | Len16_B |         16 |    270.12 ns |   5.357 ns |   7.509 ns |    268.33 ns | 0.1516 |      - |      - |    1272 B |
-| Calculate_NCalc             | Len16_C | Len16_C |         17 |    262.62 ns |   5.033 ns |   4.203 ns |    263.09 ns | 0.1488 |      - |      - |    1248 B |
-| Calculate_NCalc             | Len64_A | Len64_A |         64 |  1,311.52 ns |  25.096 ns |  24.648 ns |  1,298.38 ns | 0.6371 | 0.0019 |      - |    5344 B |
-| Calculate_NCalc             | Len64_B | Len64_B |         65 |  1,050.06 ns |  18.754 ns |  16.625 ns |  1,042.97 ns | 0.5226 | 0.0019 |      - |    4384 B |
-| Calculate_NCalc             | Len64_C | Len64_C |         67 |  1,134.95 ns |  19.046 ns |  17.816 ns |  1,132.92 ns | 0.5589 | 0.0019 |      - |    4680 B |
-| Calculate_xFunc             | Len08_A | Len08_A |          8 |    350.66 ns |   6.628 ns |   6.200 ns |    347.36 ns | 0.0420 |      - |      - |     352 B |
-| Calculate_xFunc             | Len08_B | Len08_B |          9 |    350.91 ns |   6.735 ns |   7.486 ns |    349.13 ns | 0.0420 |      - |      - |     352 B |
-| Calculate_xFunc             | Len08_C | Len08_C |          9 |    352.38 ns |   5.982 ns |   5.303 ns |    352.56 ns | 0.0420 |      - |      - |     352 B |
-| Calculate_xFunc             | Len16_A | Len16_A |         16 |    590.97 ns |  11.341 ns |  11.139 ns |    593.99 ns | 0.0572 |      - |      - |     480 B |
-| Calculate_xFunc             | Len16_B | Len16_B |         16 |    568.56 ns |   5.382 ns |   4.494 ns |    568.31 ns | 0.0572 |      - |      - |     480 B |
-| Calculate_xFunc             | Len16_C | Len16_C |         17 |    573.69 ns |  10.313 ns |   8.051 ns |    577.00 ns | 0.0572 |      - |      - |     480 B |
-| Calculate_xFunc             | Len64_A | Len64_A |         64 |  3,029.21 ns |  44.387 ns |  37.065 ns |  3,040.08 ns | 0.2708 |      - |      - |    2272 B |
-| Calculate_xFunc             | Len64_B | Len64_B |         65 |  2,542.58 ns |  50.810 ns |  49.902 ns |  2,526.11 ns | 0.2251 |      - |      - |    1888 B |
-| Calculate_xFunc             | Len64_C | Len64_C |         67 |  2,701.08 ns |  49.944 ns |  44.274 ns |  2,694.07 ns | 0.2403 |      - |      - |    2016 B |
-| Calculate_ExprTk            | Len08_A | Len08_A |          8 | 34,532.84 ns | 545.643 ns | 510.395 ns | 34,723.01 ns |      - |      - |      - |         - |
-| Calculate_ExprTk            | Len08_B | Len08_B |          9 | 34,398.14 ns | 640.262 ns | 711.649 ns | 34,315.12 ns |      - |      - |      - |         - |
-| Calculate_ExprTk            | Len08_C | Len08_C |          9 | 34,116.07 ns | 552.838 ns | 517.125 ns | 33,923.76 ns |      - |      - |      - |         - |
-| Calculate_ExprTk            | Len16_A | Len16_A |         16 | 34,710.02 ns | 213.337 ns | 189.117 ns | 34,782.14 ns |      - |      - |      - |         - |
-| Calculate_ExprTk            | Len16_B | Len16_B |         16 | 34,841.45 ns | 528.165 ns | 518.729 ns | 34,610.28 ns |      - |      - |      - |         - |
-| Calculate_ExprTk            | Len16_C | Len16_C |         17 | 34,847.98 ns | 334.533 ns | 296.555 ns | 34,813.16 ns |      - |      - |      - |         - |
-| Calculate_ExprTk            | Len64_A | Len64_A |         64 | 45,242.95 ns | 205.607 ns | 182.266 ns | 45,311.04 ns |      - |      - |      - |         - |
-| Calculate_ExprTk            | Len64_B | Len64_B |         65 | 43,314.55 ns | 309.746 ns | 274.582 ns | 43,300.88 ns |      - |      - |      - |         - |
-| Calculate_ExprTk            | Len64_C | Len64_C |         67 | 44,266.54 ns | 345.993 ns | 306.714 ns | 44,361.03 ns |      - |      - |      - |         - |
+| Method                      | Input   | Case    | Char Count | Mean         | Error      | StdDev     | Gen0   | Gen1   | Allocated |
+|---------------------------- |-------- |-------- |-----------:|-------------:|-----------:|-----------:|-------:|-------:|----------:|
+| Calculate_FormulaCalculator | Len08_A | Len08_A |          8 |     14.21 ns |   0.294 ns |   0.260 ns |      - |      - |         - |
+| Calculate_FormulaCalculator | Len08_B | Len08_B |          9 |     14.27 ns |   0.072 ns |   0.067 ns |      - |      - |         - |
+| Calculate_FormulaCalculator | Len08_C | Len08_C |          9 |     14.29 ns |   0.310 ns |   0.319 ns |      - |      - |         - |
+| Calculate_FormulaCalculator | Len16_A | Len16_A |         16 |     29.21 ns |   0.480 ns |   0.449 ns |      - |      - |         - |
+| Calculate_FormulaCalculator | Len16_B | Len16_B |         16 |     28.18 ns |   0.302 ns |   0.268 ns |      - |      - |         - |
+| Calculate_FormulaCalculator | Len16_C | Len16_C |         17 |     25.65 ns |   0.506 ns |   0.497 ns |      - |      - |         - |
+| Calculate_FormulaCalculator | Len64_A | Len64_A |         64 |    159.21 ns |   3.113 ns |   3.937 ns |      - |      - |         - |
+| Calculate_FormulaCalculator | Len64_B | Len64_B |         65 |    125.71 ns |   1.785 ns |   1.582 ns |      - |      - |         - |
+| Calculate_FormulaCalculator | Len64_C | Len64_C |         67 |    141.49 ns |   2.693 ns |   2.645 ns |      - |      - |         - |
+| Calculate_ClosedXml         | Len08_A | Len08_A |          8 |    840.02 ns |  10.464 ns |   9.788 ns | 0.2050 |      - |    1720 B |
+| Calculate_ClosedXml         | Len08_B | Len08_B |          9 |    876.03 ns |  12.693 ns |  11.873 ns | 0.2041 |      - |    1720 B |
+| Calculate_ClosedXml         | Len08_C | Len08_C |          9 |    853.12 ns |  16.397 ns |  13.693 ns | 0.2050 |      - |    1720 B |
+| Calculate_ClosedXml         | Len16_A | Len16_A |         16 |  1,114.07 ns |   5.264 ns |   4.924 ns | 0.2403 |      - |    2016 B |
+| Calculate_ClosedXml         | Len16_B | Len16_B |         16 |  1,119.17 ns |   3.837 ns |   3.589 ns | 0.2403 | 0.0019 |    2016 B |
+| Calculate_ClosedXml         | Len16_C | Len16_C |         17 |  1,124.61 ns |   6.029 ns |   5.345 ns | 0.2403 |      - |    2016 B |
+| Calculate_ClosedXml         | Len64_A | Len64_A |         64 |  3,885.53 ns |   6.675 ns |   5.917 ns | 0.5112 |      - |    4336 B |
+| Calculate_ClosedXml         | Len64_B | Len64_B |         65 |  3,514.76 ns |  22.778 ns |  21.306 ns | 0.4883 |      - |    4096 B |
+| Calculate_ClosedXml         | Len64_C | Len64_C |         67 |  3,721.01 ns |  14.763 ns |  13.087 ns | 0.4959 |      - |    4176 B |
+| Calculate_DataTable         | Len08_A | Len08_A |          8 |    390.18 ns |   4.570 ns |   4.275 ns | 0.3133 | 0.0005 |    2624 B |
+| Calculate_DataTable         | Len08_B | Len08_B |          9 |    419.08 ns |   4.351 ns |   3.857 ns | 0.3152 | 0.0005 |    2640 B |
+| Calculate_DataTable         | Len08_C | Len08_C |          9 |    396.95 ns |   6.490 ns |   6.071 ns | 0.3152 | 0.0005 |    2640 B |
+| Calculate_DataTable         | Len16_A | Len16_A |         16 |    577.48 ns |   4.733 ns |   4.427 ns | 0.3548 |      - |    2992 B |
+| Calculate_DataTable         | Len16_B | Len16_B |         16 |    606.75 ns |   3.901 ns |   3.649 ns | 0.3586 |      - |    3000 B |
+| Calculate_DataTable         | Len16_C | Len16_C |         17 |    642.07 ns |   3.529 ns |   3.301 ns | 0.3586 |      - |    3016 B |
+| Calculate_DataTable         | Len64_A | Len64_A |         64 |  2,444.56 ns |  14.479 ns |  13.544 ns | 0.8011 | 0.0038 |    6704 B |
+| Calculate_DataTable         | Len64_B | Len64_B |         65 |  2,304.38 ns |  18.936 ns |  17.713 ns | 0.7324 |      - |    6152 B |
+| Calculate_DataTable         | Len64_C | Len64_C |         67 |  2,394.17 ns |  13.074 ns |  12.229 ns | 0.7477 |      - |    6344 B |
+| Calculate_IronPython        | Len08_A | Len08_A |          8 | 10,419.76 ns | 179.299 ns | 167.716 ns | 5.0964 | 0.4578 |   42683 B |
+| Calculate_IronPython        | Len08_B | Len08_B |          9 | 10,165.54 ns | 117.421 ns | 104.090 ns | 5.1117 | 0.3815 |   42836 B |
+| Calculate_IronPython        | Len08_C | Len08_C |          9 | 10,040.54 ns |  90.909 ns |  80.588 ns | 5.1117 | 0.3967 |   42828 B |
+| Calculate_IronPython        | Len16_A | Len16_A |         16 | 10,629.35 ns |  69.152 ns |  61.301 ns | 5.1270 | 0.3662 |   43108 B |
+| Calculate_IronPython        | Len16_B | Len16_B |         16 | 10,064.47 ns | 107.696 ns | 100.739 ns | 5.0049 | 0.4272 |   42044 B |
+| Calculate_IronPython        | Len16_C | Len16_C |         17 | 10,549.71 ns |  84.904 ns |  79.420 ns | 5.1727 | 0.3815 |   43284 B |
+| Calculate_IronPython        | Len64_A | Len64_A |         64 | 18,736.42 ns | 125.046 ns | 110.850 ns | 6.8359 | 0.4883 |   57486 B |
+| Calculate_IronPython        | Len64_B | Len64_B |         65 | 17,140.62 ns | 130.215 ns | 101.663 ns | 6.4697 | 0.4883 |   54845 B |
+| Calculate_IronPython        | Len64_C | Len64_C |         67 | 17,525.94 ns | 106.950 ns | 100.041 ns | 6.5918 | 0.4883 |   55197 B |
+| Calculate_NCalc             | Len08_A | Len08_A |          8 |    201.49 ns |   2.103 ns |   1.967 ns | 0.1223 |      - |    1024 B |
+| Calculate_NCalc             | Len08_B | Len08_B |          9 |    190.76 ns |   0.801 ns |   0.749 ns | 0.1194 |      - |    1000 B |
+| Calculate_NCalc             | Len08_C | Len08_C |          9 |    189.57 ns |   0.825 ns |   0.731 ns | 0.1194 |      - |    1000 B |
+| Calculate_NCalc             | Len16_A | Len16_A |         16 |    270.29 ns |   1.379 ns |   1.290 ns | 0.1545 |      - |    1296 B |
+| Calculate_NCalc             | Len16_B | Len16_B |         16 |    260.37 ns |   1.138 ns |   1.065 ns | 0.1516 |      - |    1272 B |
+| Calculate_NCalc             | Len16_C | Len16_C |         17 |    245.89 ns |   0.841 ns |   0.746 ns | 0.1488 |      - |    1248 B |
+| Calculate_NCalc             | Len64_A | Len64_A |         64 |  1,286.80 ns |   4.075 ns |   3.612 ns | 0.6371 | 0.0019 |    5344 B |
+| Calculate_NCalc             | Len64_B | Len64_B |         65 |  1,137.75 ns |   1.263 ns |   1.120 ns | 0.5226 | 0.0019 |    4384 B |
+| Calculate_NCalc             | Len64_C | Len64_C |         67 |  1,095.91 ns |   1.877 ns |   1.756 ns | 0.5589 | 0.0019 |    4680 B |
+| Calculate_xFunc             | Len08_A | Len08_A |          8 |    341.39 ns |   1.310 ns |   1.226 ns | 0.0420 |      - |     352 B |
+| Calculate_xFunc             | Len08_B | Len08_B |          9 |    341.81 ns |   1.557 ns |   1.456 ns | 0.0420 |      - |     352 B |
+| Calculate_xFunc             | Len08_C | Len08_C |          9 |    342.83 ns |   0.801 ns |   0.710 ns | 0.0420 |      - |     352 B |
+| Calculate_xFunc             | Len16_A | Len16_A |         16 |    568.09 ns |   2.037 ns |   1.805 ns | 0.0572 |      - |     480 B |
+| Calculate_xFunc             | Len16_B | Len16_B |         16 |    575.56 ns |   3.808 ns |   3.375 ns | 0.0572 |      - |     480 B |
+| Calculate_xFunc             | Len16_C | Len16_C |         17 |    558.64 ns |   1.087 ns |   0.908 ns | 0.0572 |      - |     480 B |
+| Calculate_xFunc             | Len64_A | Len64_A |         64 |  2,932.22 ns |   6.443 ns |   6.027 ns | 0.2708 |      - |    2272 B |
+| Calculate_xFunc             | Len64_B | Len64_B |         65 |  2,509.77 ns |   5.845 ns |   4.881 ns | 0.2251 |      - |    1888 B |
+| Calculate_xFunc             | Len64_C | Len64_C |         67 |  2,653.66 ns |   8.056 ns |   7.535 ns | 0.2403 |      - |    2016 B |
+| Calculate_ExprTk            | Len08_A | Len08_A |          8 | 41,457.57 ns | 584.448 ns | 546.693 ns |      - |      - |         - |
+| Calculate_ExprTk            | Len08_B | Len08_B |          9 | 42,847.31 ns | 833.751 ns | 779.891 ns |      - |      - |         - |
+| Calculate_ExprTk            | Len08_C | Len08_C |          9 | 45,267.98 ns | 191.078 ns | 178.734 ns |      - |      - |         - |
+| Calculate_ExprTk            | Len16_A | Len16_A |         16 | 42,323.03 ns | 773.344 ns | 723.386 ns |      - |      - |         - |
+| Calculate_ExprTk            | Len16_B | Len16_B |         16 | 45,434.93 ns | 274.418 ns | 243.264 ns |      - |      - |         - |
+| Calculate_ExprTk            | Len16_C | Len16_C |         17 | 49,734.07 ns | 202.675 ns | 179.666 ns |      - |      - |         - |
+| Calculate_ExprTk            | Len64_A | Len64_A |         64 | 69,381.37 ns | 478.763 ns | 447.835 ns |      - |      - |         - |
+| Calculate_ExprTk            | Len64_B | Len64_B |         65 | 64,574.17 ns | 786.426 ns | 656.701 ns |      - |      - |         - |
+| Calculate_ExprTk            | Len64_C | Len64_C |         67 | 66,630.75 ns | 823.367 ns | 770.178 ns |      - |      - |         - |
